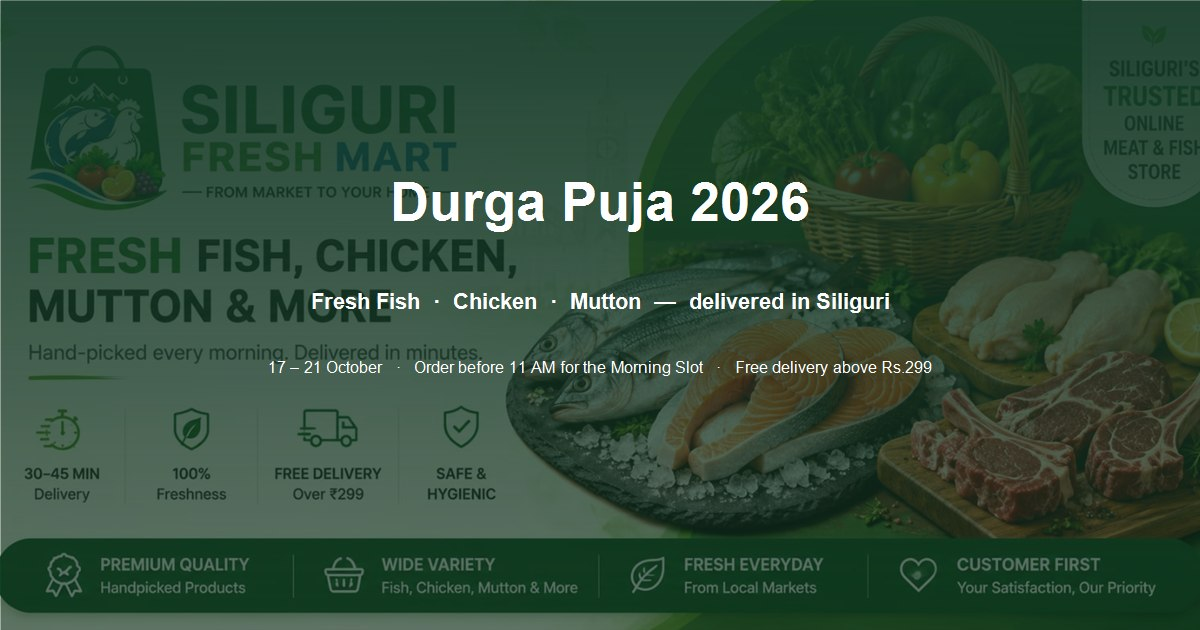
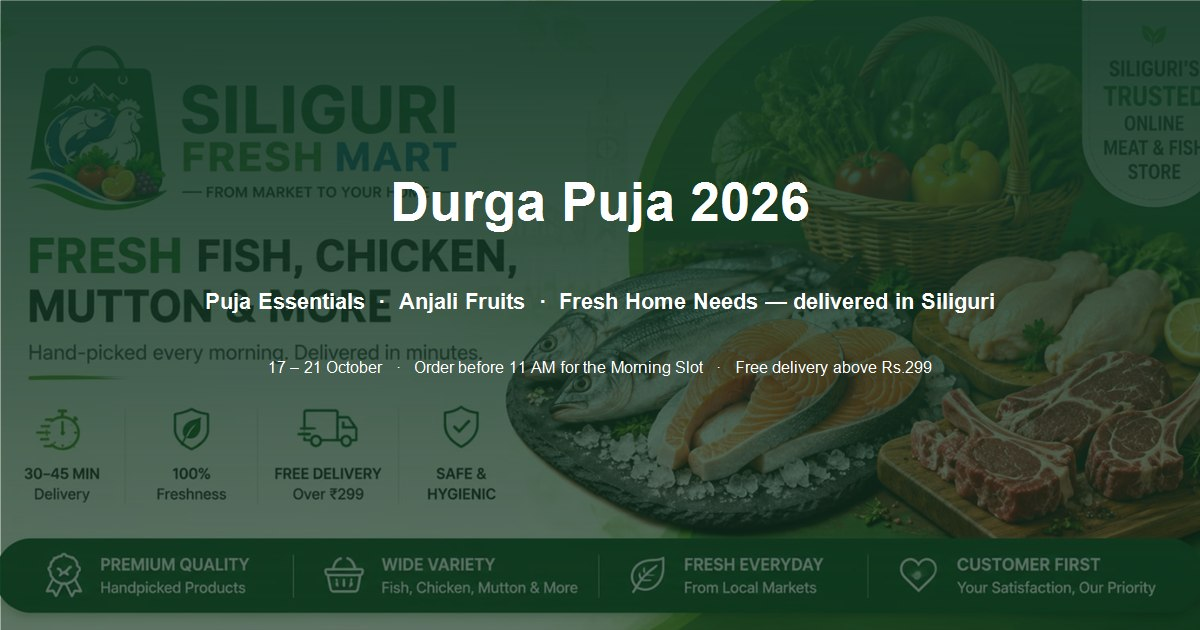
Reframe Durga Puja page as puja-safe essentials led by fruits

Changed region(s): [[0.1542, 0.4524, 0.8325, 0.5127]]

diff --git a/src/app/(shop)/durgapuja/durgapuja-client.tsx b/src/app/(shop)/durgapuja/durgapuja-client.tsx
@@ -18,6 +18,7 @@ import {
   Salad,
   ArrowRight,
   CheckCircle2,
+  Apple,
 } from "lucide-react";
 import { DURGA_PUJA_SEO } from "@/lib/durgapuja-seo";
 import { DELIVERY_ZONES } from "@/lib/zones";
@@ -28,71 +29,80 @@ const PUJA_DAYS = [
     day: "Shashthi",
     date: "Sat, 17 Oct",
     label: "Bodhon & Amontron",
-    desc: "The puja formally begins. Fresh hilsa and prawns for the festive dinner when guests arrive.",
+    desc: "The puja formally begins. Fresh apples, bananas & pomegranates for the evening offering.",
   },
   {
     day: "Saptami",
     date: "Sun, 18 Oct",
     label: "Kola Bou Snan & Nabapatrika",
-    desc: "The banana bride is bathed. Bhog favourites like khichuri start early — stock up on vegetables and fritters.",
+    desc: "The banana bride is bathed. Stock up on vegetables & ghee for the first bhog-khichuri.",
   },
   {
     day: "Ashtami",
     date: "Mon, 19 Oct",
     label: "Anjali & Kumor Bhog",
-    desc: "The biggest day. Order mutton or chicken the night before for the family spread after anjali.",
+    desc: "The biggest day — anjali in the morning, Kumor Bhog at noon. Fruits for anjali, essentials for khichuri.",
   },
   {
     day: "Navami",
     date: "Tue, 20 Oct",
     label: "Maha Navami",
-    desc: "Another full day of bhog and get-togethers. Fresh rohu, katla and prawns keep every thali special.",
+    desc: "Another full day of bhog & get-togethers. Fresh vegetables, coconut & dairy for every kitchen.",
   },
   {
     day: "Dashami",
     date: "Wed, 21 Oct",
     label: "Sindoor Khela & Visarjan",
-    desc: "Goodbye to Maa. A light, fresh fish jhol with the family before the visarjan rush.",
+    desc: "Goodbye to Maa. Fresh fruits for prasad before the visarjan procession.",
   },
 ];
 
-const STAPLES = [
+const PUJA_ESSENTIALS = [
   {
-    name: "Fresh Fish",
-    href: "/fish",
-    icon: Fish,
-    note: "Hilsa, Rohu, Katla, Prawns — scaled, gutted & cut to order for the pujo thali",
-  },
-  {
-    name: "Chicken",
-    href: "/category/chicken",
-    icon: Drumstick,
-    note: "Broiler & farm-fresh — the star of Ashtami and Navami family bhog",
-  },
-  {
-    name: "Mutton",
-    href: "/category/mutton",
-    icon: Beef,
-    note: "Premium cuts slow-cooked to perfection for the puja feast",
-  },
-  {
-    name: "Dairy & Eggs",
-    href: "/category/dairy",
-    icon: Milk,
-    note: "Eggs, paneer & dairy essentials for the puja breakfast table",
+    name: "Fresh Fruits",
+    href: "/category/fruits",
+    icon: Apple,
+    note: "For anjali & prasad — apples, bananas, pomegranates & seasonal fruits",
   },
   {
     name: "Vegetables",
     href: "/category/vegetables",
     icon: Salad,
-    note: "Farm-fresh veggies for bhog khichuri, bhaja & family lunches",
+    note: "Farm-fresh for bhog khichuri, bhaja & the festive kitchen",
+  },
+  {
+    name: "Dairy & Essentials",
+    href: "/category/dairy",
+    icon: Milk,
+    note: "Ghee, milk, curd, eggs & pantry staples for the pujo kitchen",
+  },
+];
+
+const HOME_MEALS = [
+  {
+    name: "Fresh Fish",
+    href: "/fish",
+    icon: Fish,
+    note: "Available for households whose home cooking follows its own tradition",
+  },
+  {
+    name: "Chicken",
+    href: "/category/chicken",
+    icon: Drumstick,
+    note: "Available separately for families that cook at home during pujo",
+  },
+  {
+    name: "Mutton",
+    href: "/category/mutton",
+    icon: Beef,
+    note: "Premium cuts, available for the home table if that is your custom",
   },
 ];
 
 const BENEFITS = [
-  "Sourced fresh every morning from Siliguri's local markets",
+  "Fresh fruits for anjali & prasad, delivered before the arati",
+  "Vegetables, ghee & staples for bhog and the festive kitchen",
   "Free delivery above ₹299 · Same-day doorstep delivery",
-  "Your choice of cut & cleaning — just like the market",
   "Order online, by WhatsApp or just pick up the phone",
 ];
 
@@ -146,6 +156,9 @@ export function DurgaPujaClient() {
 
           <div className="mt-5 flex flex-wrap items-center gap-2.5">
             <span className="inline-flex items-center gap-1.5 rounded-full bg-white/15 backdrop-blur-sm px-3 py-1.5 text-xs font-semibold text-white">
+              <Apple className="h-3.5 w-3.5" /> Anjali-fresh fruits
+            </span>
+            <span className="inline-flex items-center gap-1.5 rounded-full bg-white/15 backdrop-blur-sm px-3 py-1.5 text-xs font-semibold text-white">
               <Clock className="h-3.5 w-3.5" /> 1–2 hrs delivery
             </span>
             <span className="inline-flex items-center gap-1.5 rounded-full bg-white/15 backdrop-blur-sm px-3 py-1.5 text-xs font-semibold text-white">
@@ -196,17 +209,23 @@ export function DurgaPujaClient() {
       <div className="mb-8 rounded-2xl border border-[#2D7D3A]/20 bg-gradient-to-r from-[#EAF4EC] to-[#FDF6E7] p-5">
         <div className="flex flex-col gap-3 sm:flex-row sm:items-center sm:justify-between">
           <div>
-            <p className="text-sm font-extrabold text-foreground">Ready for Pujo? Stock your kitchen today.</p>
+            <p className="text-sm font-extrabold text-foreground">Ready for Pujo? Plan your essentials today.</p>
             <p className="text-xs text-muted mt-0.5">
-              Same-day delivery across Siliguri · Free above ₹299 · Cut to your liking.
+              Fresh fruits for anjali · bhog essentials · Same-day delivery across Siliguri · Free above ₹299
             </p>
           </div>
           <div className="flex flex-wrap gap-2">
             <Link
-              href="/fish"
+              href="/category/fruits"
               className="inline-flex items-center gap-1.5 rounded-xl bg-[#2D7D3A] px-4 py-2.5 text-sm font-bold text-white transition-all hover:bg-[#23682E] active:scale-[0.97]"
             >
-              <Fish className="h-4 w-4" /> Shop Fish
+              <Apple className="h-4 w-4" /> Shop Fruits
+            </Link>
+            <Link
+              href="/category/vegetables"
+              className="inline-flex items-center gap-1.5 rounded-xl bg-[#2D7D3A]/10 px-4 py-2.5 text-sm font-bold text-[#2D7D3A] transition-all hover:bg-[#2D7D3A]/20 active:scale-[0.97]"
+            >
+              Bhog Vegetables
             </Link>
             <Link
               href="https://wa.me/917029908278?text=Hi!%20I%27d%20like%20to%20plan%20my%20Durga%20Puja%20order."
@@ -226,20 +245,50 @@ export function DurgaPujaClient() {
         </div>
       </div>
 
-      {/* Puja staples */}
+      {/* Puja essentials */}
       <div className="mb-8">
-        <h2 className="text-lg font-extrabold text-foreground mb-1">Pujo Staples</h2>
+        <h2 className="text-lg font-extrabold text-foreground mb-1">Pujo Essentials</h2>
         <p className="text-xs text-muted mb-4">
-          Everything you need for bhog, anjali and the family feast — stocked fresh through 17–21 October.
+          For anjali, prasad & bhog — stocked fresh through 17–21 October.
         </p>
         <div className="grid gap-3 sm:grid-cols-2 lg:grid-cols-3">
-          {STAPLES.map((s) => (
+          {PUJA_ESSENTIALS.map((s) => (
             <Link
               key={s.name}
               href={s.href}
               className="group flex items-start gap-3 rounded-2xl border border-border bg-surface p-4 transition-all hover:border-[#2D7D3A]/40 hover:shadow-md active:scale-[0.98]"
             >
               <div className="flex h-11 w-11 shrink-0 items-center justify-center rounded-xl bg-[#2D7D3A] text-white">
+                <s.icon className="h-5 w-5" />
+              </div>
+              <div className="min-w-0 flex-1">
+                <p className="text-sm font-bold text-foreground group-hover:text-[#2D7D3A]">
+                  {s.name}
+                </p>
+                <p className="mt-0.5 text-xs text-muted leading-relaxed">{s.note}</p>
+              </div>
+              <ChevronRight className="mt-1 h-4 w-4 shrink-0 text-muted transition-transform group-hover:translate-x-0.5 group-hover:text-[#2D7D3A]" />
+            </Link>
+          ))}
+        </div>
+      </div>
+
+      {/* Home meals — respectful, optional */}
+      <div className="mb-8">
+        <h2 className="text-base font-extrabold text-foreground mb-1">Also available for your home table</h2>
+        <p className="text-xs text-muted mb-4 max-w-2xl">
+          Customs differ from family to family, and many households keep the pujo days sattvik. We simply make
+          these available for families whose home cooking follows its own tradition during the puja — the choice
+          is entirely yours.
+        </p>
+        <div className="grid gap-3 sm:grid-cols-2 lg:grid-cols-3">
+          {HOME_MEALS.map((s) => (
+            <Link
+              key={s.name}
+              href={s.href}
+              className="group flex items-start gap-3 rounded-2xl border border-dashed border-border bg-transparent p-4 transition-all hover:border-[#2D7D3A]/40 hover:shadow-md active:scale-[0.98]"
+            >
+              <div className="flex h-11 w-11 shrink-0 items-center justify-center rounded-xl bg-[#2D7D3A]/10 text-[#2D7D3A]">
                 <s.icon className="h-5 w-5" />
               </div>
               <div className="min-w-0 flex-1">
@@ -275,7 +324,7 @@ export function DurgaPujaClient() {
             <Phone className="h-4 w-4 mt-0.5 text-[#2D7D3A]" />
             <div>
               <p className="font-semibold text-foreground">Need Help?</p>
-              <p className="text-xs text-muted">Call +91 7029908278 for custom cuts & bulk pujo orders</p>
+              <p className="text-xs text-muted">Call +91 7029908278 for bulk & committee pujo orders</p>
             </div>
           </div>
         </div>
@@ -284,9 +333,11 @@ export function DurgaPujaClient() {
       {/* Content section */}
       <div className="mb-8 rounded-2xl border border-border bg-surface p-6">
         <h2 className="text-base font-extrabold text-foreground mb-3">{seo.contentHeading}</h2>
-        <p className="text-sm text-muted leading-relaxed">{seo.content}</p>
+        {seo.content.split("\n\n").map((para, i) => (
+          <p key={i} className="text-sm text-muted leading-relaxed mb-3 last:mb-0">{para}</p>
+        ))}
         <div className="mt-4 flex flex-wrap gap-2">
-          {["Hilsa", "Rohu", "Katla", "Prawns", "Chicken", "Mutton"].map((item) => (
+          {["Banana", "Apple", "Pomegranate", "Seasonal Fruits", "Bhog Vegetables", "Ghee & Coconut"].map((item) => (
             <span
               key={item}
               className="rounded-full border border-[#2D7D3A]/20 bg-[#2D7D3A]/5 px-3 py-1 text-xs font-medium text-[#2D7D3A]"
@@ -327,7 +378,7 @@ export function DurgaPujaClient() {
           We Deliver Pujo Orders Across Siliguri
         </h2>
         <p className="text-xs text-muted mb-4">
-          Fresh fish & puja essentials delivered to all these areas:
+          Puja essentials & fresh daily needs delivered to all these areas:
         </p>
         <div className="flex flex-wrap gap-2">
           {DELIVERY_ZONES.map((zone) => (
@@ -349,12 +400,12 @@ export function DurgaPujaClient() {
           Shubho Durgotsav 2026 — from Siliguri Freshmart
         </p>
         <p className="mx-auto mt-1 max-w-md text-xs text-white/70">
-          Order before 11 AM and your fish, chicken or mutton reaches your door the same day.
+          Order before 11 AM and your puja essentials reach your door the same day.
           শুভ দুর্গাপুজো!
         </p>
         <div className="mt-4 flex justify-center gap-2">
           <Link
-            href="/category/chicken"
+            href="/category/fruits"
             className="inline-flex items-center gap-1.5 rounded-xl bg-white px-4 py-2.5 text-sm font-bold text-[#1E3A2F] transition-all hover:bg-[#F4B942] active:scale-[0.97]"
           >
             Shop Puja Essentials <ArrowRight className="h-4 w-4" />

diff --git a/src/lib/durgapuja-seo.ts b/src/lib/durgapuja-seo.ts
@@ -19,43 +19,49 @@ export interface DurgaPujaSEO {
 
 export const DURGA_PUJA_SEO: DurgaPujaSEO = {
   title:
-    "Durga Puja 2026 Special – Fresh Fish, Chicken & Mutton Delivery in Siliguri | Siliguri Freshmart",
+    "Durga Puja 2026 – Fresh Fruits, Puja Essentials & Daily Essentials in Siliguri | Siliguri Freshmart",
   description:
-    "Order fresh fish (hilsa, rohu, prawns), chicken & mutton for Durga Puja in Siliguri, 17–21 Oct. Bhog-ready, cut to order, delivered to your doorstep across all of Siliguri. Free delivery above ₹299. Order before 11 AM for the Morning Slot.",
+    "Order fresh fruits for anjali & prasad, vegetables for bhog khichuri, dairy and daily essentials for Durga Puja in Siliguri, 17–21 Oct. Same-day doorstep delivery across all of Siliguri. Free delivery above ₹299. Order before 11 AM for the Morning Slot.",
   keywords: [
-    "durga puja fish delivery Siliguri",
-    "pujo fish online Siliguri",
+    "anjali fruits Siliguri",
+    "puja fruit delivery Siliguri",
+    "bhog khichuri vegetables Siliguri",
+    "durga puja grocery delivery Siliguri",
     "durga puja 2026 Siliguri",
     "pujo bhog order Siliguri",
-    "ashtami bhog fish delivery",
-    "fresh fish for durga puja",
-    "chicken delivery durga puja Siliguri",
-    "mutton for puja Siliguri",
-    "pandal fish delivery Siliguri",
+    "puja prasad fruit online",
+    "fresh fruit home delivery Siliguri",
+    "pandal delivery Siliguri",
     "durga puja home delivery Siliguri",
     "দুর্গাপুজো সিলিগুড়ি",
-    "পুজোর জন্য মাছ সিলিগুড়ি",
+    "আঞ্জলির ফল সিলিগুড়ি",
+    "পুজোর ফল সিলিগুড়ি",
+    "ভোগের সবজি সিলিগুড়ি",
     "পুজোর কেনাকাটা সিলিগুড়ি",
     "মা দুর্গা",
     "অষ্টমী ভোগ",
-    "সন্ধিপুজো",
     "সিঁদুর খেলা",
   ],
-  heroHeading: "Durga Puja 2026 — Fresh fish & meat for your pujo",
+  heroHeading: "Durga Puja 2026 — Puja essentials & fresh home needs for your pujo",
   heroSub:
-    "Order hilsa, rohu, prawns, chicken & mutton for Bodhon to Dashami (17–21 October). Sourced fresh from Siliguri's morning markets, cut to order, delivered to your doorstep before the anjali.",
-  contentHeading: "Why Siliguri Freshmart for your pujo shopping?",
+    "Order fresh fruits for anjali & prasad, vegetables for bhog, and your daily essentials — delivered same-day across Siliguri from Bodhon to Dashami (17–21 October). We respect every family's tradition, so we also keep fish, chicken & mutton available separately for households that cook at home during the puja.",
+  contentHeading: "Serving every pujo need, with respect for every tradition",
   content:
-    "Durga Puja is Siliguri's biggest festival — over 800 pandals and lakhs of families host bhog, anjali and get-togethers that demand the freshest fish and meat. From Maha Shashthi (17 Oct) to Vijaya Dashami (21 Oct), we keep our full range stocked daily: Hilsa for the festive thali, Rohu and Katla for jhol, Prawns and Mutton for the family spread. Everything is sourced fresh every morning from Siliguri's local markets, cut and cleaned exactly how you need it, and delivered the same day. Order before 11 AM for the Morning Slot (11 AM – 1 PM) and your kitchen is ready before the puja beckons.",
+    "Durga Puja is Siliguri's biggest festival — over 800 pandals and lakhs of families host bhog, anjali and get-togethers. Fresh fruits are offered at anjali and prasad, vegetables go into the bhog khichuri and bhaja, and dairy completes the festive kitchen. From Maha Shashthi (17 Oct) to Vijaya Dashami (21 Oct) we keep these puja essentials fully stocked every day, sourced fresh each morning from Siliguri's local markets and delivered to your doorstep the same day.\n\nWe understand that food traditions differ from family to family — many households keep their pujo sattvik and avoid non-veg during the days of worship. That is entirely your call. So we present fish, chicken and mutton separately for families whose home cooking follows its own custom during the puja, nothing more, nothing less. Whatever your pujo table needs, order before 11 AM for the Morning Slot (11 AM – 1 PM) and your kitchen is ready before the puja beckons.",
   deliveryInfo:
     "Same-day puja delivery across Siliguri. Within 8 km arrives in 1–2 hours; 8–16 km in the 11 AM – 1 PM Morning Slot (order before 11 AM); 16–20 km in the 2 PM – 3 PM Afternoon Slot (order before 2 PM).",
   startDate: "2026-10-17",
   endDate: "2026-10-21",
   faq: [
     {
-      question: "Can I order fresh fish for Durga Puja bhog in Siliguri?",
+      question: "Can I order fresh fruits for anjali and prasad during Durga Puja?",
       answer:
-        "Yes. Siliguri Freshmart stocks Hilsa, Rohu, Katla, Prawns, Chicken and Mutton throughout Durga Puja (17–21 October). You can order online, call 7029908278, or WhatsApp us. Fish is scaled, gutted and cut to your preference and delivered the same day to your address anywhere in Siliguri.",
+        "Yes. We deliver fresh seasonal fruits every day throughout Durga Puja for your anjali and prasad — the kinds traditionally offered at the puja. Order online or WhatsApp us, and they arrive the same day at your address anywhere in Siliguri.",
+    },
+    {
+      question: "Can I order vegetables and kitchen essentials for bhog in Siliguri?",
+      answer:
+        "Absolutely. From bhog khichuri vegetables to ghee, milk and daily kitchen staples, we keep everything stocked for the puja kitchen (17–21 October). Order before 11 AM and your essentials arrive before the bhog begins.",
     },
     {
       question: "Do you deliver during Durga Puja in Siliguri?",
@@ -63,24 +69,19 @@ export const DURGA_PUJA_SEO: DurgaPujaSEO = {
         "Yes, we deliver every day from 9 AM – 4 PM through the puja. Within 8 km of our hub at MCQF+GFQ your order arrives in 1–2 hours. Beyond 8 km, orders placed before 11 AM are delivered in the 11 AM – 1 PM Morning Slot, and before 2 PM in the 2 PM – 3 PM Afternoon Slot.",
     },
     {
-      question: "How early should I order fish for Maha Ashtami or Navami?",
-      answer:
-        "For a guaranteed delivery on the day you need it, order the night before or before 11 AM that morning. The morning slots fill up first during puja, so ordering before 11 AM locks in the 11 AM – 1 PM delivery window.",
-    },
-    {
       question: "Do you deliver to pandal areas and puja committees in Siliguri?",
       answer:
-        "Yes. We deliver across all of Siliguri including Shantipara, Pradhan Nagar, Hakimpara, Matigara, Bagdogra, Bhaktinagar, Champasari and Sukna. For bulk or committee orders (bhog for 50+ people), call us at 7029908278 or +91 96354 80453 for special pricing.",
+        "Yes. We deliver across all of Siliguri including Shantipara, Pradhan Nagar, Hakimpara, Matigara, Bagdogra, Bhaktinagar, Champasari and Sukna. For bulk or committee orders (bhog or bhog-prasad for a large gathering), call us at 7029908278 or +91 96354 80453 for special arrangements.",
     },
     {
-      question: "Can I order family-size fish, chicken or mutton for puja get-togethers?",
+      question: "Is it okay to order fish and meat during Durga Puja?",
       answer:
-        "Absolutely. Order any quantity online with your preferred cut and cleaning (whole, steaks, curry cut, Bengali cut). For large family or committee orders above ₹1,499, delivery is free within our coverage area — call us to arrange a custom order.",
+        "We completely understand that food customs differ from family to family, and many households keep the pujo days sattvik — that is why our puja essentials (fruits, vegetables, dairy) are always highlighted first. For families that cook at home during the puja, we also keep fresh fish, chicken and mutton available as a separate option, delivered exactly the same way. The choice is always and entirely yours, and we respect it.",
     },
     {
-      question: "Is anything special happening for Pujo at Siliguri Freshmart?",
+      question: "What do you offer beyond fruits and bhog essentials for Pujo?",
       answer:
-        "Throughout Durga Puja (17–21 October) we keep Hilsa, Rohu, Katla, Prawns, Chicken and Mutton fully stocked with same-day delivery, free delivery above ₹299, and priority WhatsApp ordering. Use the WhatsApp button on our website to send your puja list directly to our team.",
+        "Alongside puja essentials, we deliver your regular daily needs — rice, dal, oil, spices, eggs, milk, curd and more — so you don't have to step out of the puja rush. Same-day delivery, free above ₹299, and priority WhatsApp ordering throughout 17–21 October.",
     },
   ],
 } as const;

diff --git a/src/components/home/festival-banner.tsx b/src/components/home/festival-banner.tsx
@@ -26,10 +26,10 @@ export function FestivalBanner() {
       </div>
       <div className="min-w-0 flex-1">
         <p className="text-sm font-bold text-[#7A4A00] sm:text-base">
-          Pujo Special 2026 — Fresh Fish & Meat for Durga Puja
+          Pujo Special 2026 — Fruits, Bhog Essentials & More
         </p>
         <p className="text-xs text-[#A0721B]">
-          Shashthi to Dashami (17–21 Oct) · Same-day delivery at your pandal doorstep
+          Shashthi to Dashami (17–21 Oct) · Anjali fruits, bhog vegetables & same-day home delivery
         </p>
       </div>
       <span className="whitespace-nowrap rounded-full bg-[#7A4A00] px-3 py-1.5 text-xs font-bold text-white">

diff --git a/src/app/(shop)/durgapuja/page.tsx b/src/app/(shop)/durgapuja/page.tsx
@@ -91,7 +91,7 @@ export default function DurgaPujaPage() {
             },
             about: {
               "@type": "Thing",
-              name: "Same-day fresh fish and meat delivery for Durga Puja in Siliguri",
+              name: "Same-day delivery of puja essentials and fresh home needs for Durga Puja in Siliguri",
             },
           }),
         }}
